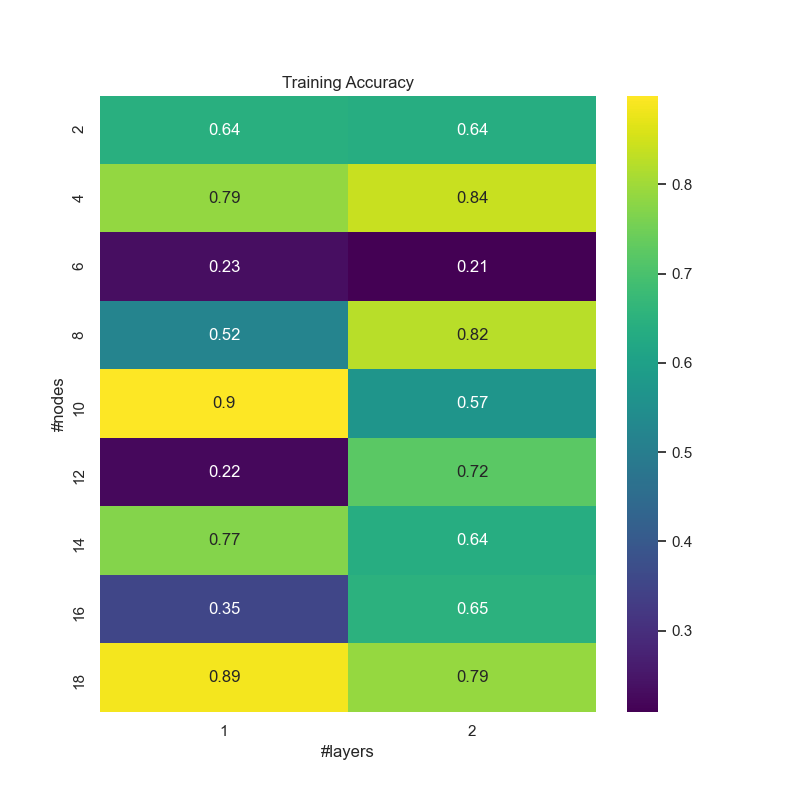
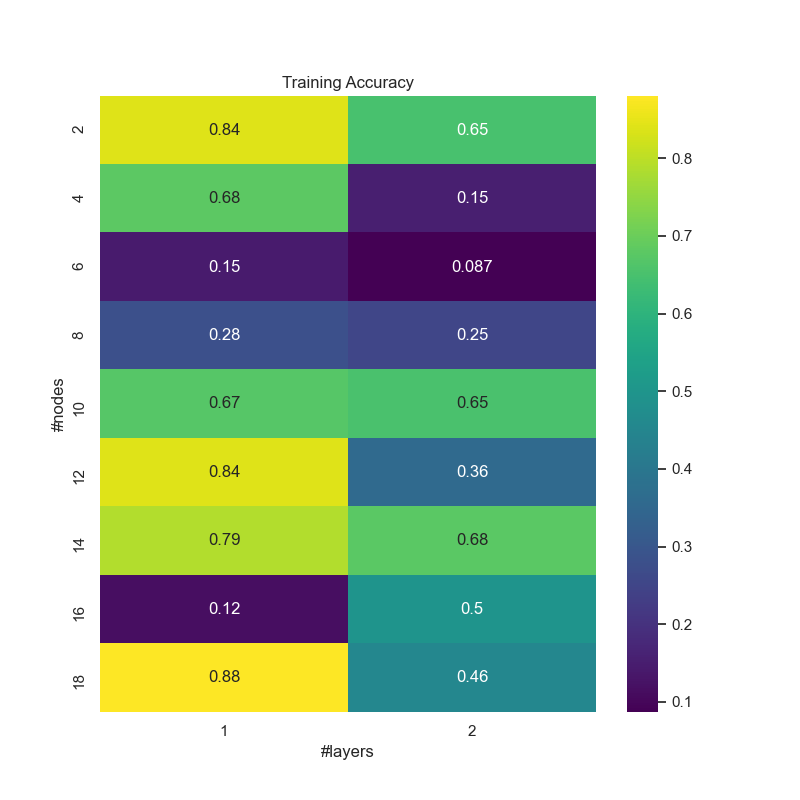
tests for learning schedoule

diff --git a/project2/code/gradient_descent.py b/project2/code/gradient_descent.py
@@ -10,7 +10,7 @@ def learning_schedule(t):
     return 5/(t+50)
 
 
-def SGD(X, y, theta_init, eta, cost_function, n_epochs, batch_size, gamma=0, tol=1e-14, lmbda=0):
+def SGD(X, y, theta_init, eta, cost_function, n_epochs, batch_size, gamma=0, tol=1e-14, lmbda=0, scale_learning = False):
     """
     Doing the stochastic gradient descent algorithm for updating 
     the initial values (theta) to give a model with better fit
@@ -69,7 +69,8 @@ def SGD(X, y, theta_init, eta, cost_function, n_epochs, batch_size, gamma=0, tol
             v = gamma*v + eta*grad
             theta_next = theta_previous - v
 
-            # eta = learning_schedule(epoch*i*m)
+            if scale_learning:
+                eta = learning_schedule(epoch*i*m)
 
             j += 1
 
@@ -124,6 +125,32 @@ def main_OLS(x_values, y_values, z_values, list_no_of_minibatches=[10], n_epochs
         degree=degree, regression_method='OLS'
     )
 
+    #Testing scaling algoritm
+    print("Scaling learning rate alogrithm")
+    for i in range(5):
+        beta_SGD, num = SGD(
+                    X=X_train_scaled, y=z_train_scaled,
+                    theta_init=np.array(
+                        [0.0] + [0.1]*(X_train_scaled.shape[1] - 1)),
+                    eta=0.1, cost_function=cost_OLS,
+                    n_epochs=n_epochs, batch_size=10,
+                    gamma=0, scale_learning=True)
+        print(
+            f'Test {i+1}: MSE: {cost_OLS(beta_SGD, X_train_scaled, z_train):.6f}')
+    
+    print("No algorithm")
+    for i in range(5):
+        beta_SGD, num = SGD(
+                    X=X_train_scaled, y=z_train_scaled,
+                    theta_init=np.array(
+                        [0.0] + [0.1]*(X_train_scaled.shape[1] - 1)),
+                    eta=0.1, cost_function=cost_OLS,
+                    n_epochs=n_epochs, batch_size=10,
+                    gamma=0, scale_learning=False)
+        print(
+            f'Test {i+1}: MSE: {cost_OLS(beta_SGD, X_train_scaled, z_train):.6f}')
+
+    exit()
     # Looping through different learning rates
     learning_rates = np.logspace(1, -6, 8)
     for no_of_minibatches in list_no_of_minibatches:
@@ -163,7 +190,7 @@ def main_OLS(x_values, y_values, z_values, list_no_of_minibatches=[10], n_epochs
 # TODO: do we compare against project 1 (RIDGE)
 
 
-def main_RIDGE(x_values, y_values, z_values, no_of_minibatches=10, n_epochs=200, degree=1, gamma=0):
+def main_RIDGE(x_values, y_values, z_values, no_of_minibatches=10, n_epochs=200, degree=4, gamma=0):
     """
     Performing an analysis of the results for RIDGE regression, with 
     respect to the input: number of minibatches and epocs. 
@@ -207,6 +234,20 @@ def main_RIDGE(x_values, y_values, z_values, no_of_minibatches=10, n_epochs=200,
     train_R2_score = np.zeros((len(learning_rates), len(lmbda_values)))
     test_R2_score = np.zeros((len(learning_rates), len(lmbda_values)))
 
+    batch_sizes = [1, 5, 10, 30, 60, 100]
+    for batch_size in batch_sizes:
+        beta_SGD, num = SGD(
+            X=X_train_scaled, y=z_train_scaled,
+            theta_init=np.array(
+                [0.0] + [0.1]*(X_train_scaled.shape[1] - 1)),
+            eta=1e-1, cost_function=cost_RIDGE,
+            n_epochs=batch_size, batch_size=batch_size,
+            gamma=0.5,lmbda=1e-3)
+
+        print(
+            f'MSE: {cost_RIDGE(beta_SGD, X_train_scaled, z_train, 1e-3):.6f} (NUMERICAL (batch size = {batch_size}))')
+    print('--------------------------------')
+    
     # TODO: do some cleaning inside here
     for i, eta in enumerate(learning_rates):
         for j, lmbda in enumerate(lmbda_values):
@@ -217,7 +258,8 @@ def main_RIDGE(x_values, y_values, z_values, no_of_minibatches=10, n_epochs=200,
             )
 
             theta, num = SGD(
-                theta_init=np.array([0.0] + list(np.random.randn(2))),
+                theta_init=np.array(
+                [0.0] + [0.1]*(X_train_scaled.shape[1] - 1)),
                 eta=eta,
                 cost_function=cost_RIDGE,
                 n_epochs=n_epochs,
@@ -258,10 +300,11 @@ def main_RIDGE(x_values, y_values, z_values, no_of_minibatches=10, n_epochs=200,
     plt.show()
 
 
+
 if __name__ == '__main__':
     n = 500
     noise = 0.1
     x_values, y_values, z_values = helper.generate_data(n, noise)
-    main_OLS(x_values, y_values, z_values)
 
-    # main_RIDGE()
+    main_OLS(x_values, y_values, z_values)
+    # main_RIDGE(x_values, y_values, z_values)

diff --git a/project2/code/test_project_2.py b/project2/code/test_project_2.py
@@ -974,3 +974,4 @@ if test12:
         score_name='Test Accuracy',
         save_name=f'plots/test12/test12_M_{batch_size}_gamma_{gamma}_lmbda_{lmbda}_eta_{eta}_hidact_{hidden_activation}_outact_{output_activation}_test_3.png'
     )
+
